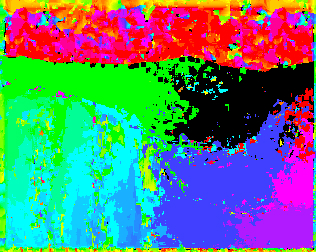
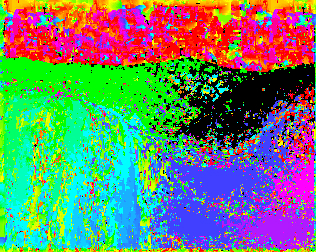
outputs

diff --git a/src/OpticalFlow.h b/src/OpticalFlow.h
@@ -13,7 +13,7 @@ public:
     // virtual Image operator()() = 0;  // call using operator
     // virtual void Call() = 0;        // call using function
 
-    void distance_to_RGB(float x, float y, int& R, int& G, int& B);
+    void distance_to_RGB(float x, float y, int& G, int& R, int& B);
     int byte_range(int);
 };
 
@@ -72,22 +72,17 @@ void OpticalFlowMethod::distance_to_RGB(float x, float y, int& R, int& G, int& B
     if ((phi >= 0.5 * Pi) && (phi < 0.75 * Pi)) {
         beta = (phi - 0.5 * Pi) / (0.25 * Pi);
         alpha = 1.0 - beta;
-
         R = (int)floor(amp * (alpha * 0.0 + beta * 255.0));
         G = (int)floor(amp * (alpha * 255.0 + beta * 255.0));
-        B = (int)floor(amp * (alpha * 255.0 + beta * 255.0));
-        // B = (int)floor(amp * (alpha * 0.0 + beta * 0.0));
+        B = (int)floor(amp * (alpha * 0.0 + beta * 0.0));
     }
     // interpolation between yellow (0.75 * Pi) and red (Pi)
     if ((phi >= 0.75 * Pi) && (phi <= Pi)) {
         beta = (phi - 0.75 * Pi) / (0.25 * Pi);
         alpha = 1.0 - beta;
-
-        // R = (int)floor(amp * (alpha * 255.0 + beta * 255.0));
-        // R = (int)floor(amp * (alpha * 0.0 + beta * 0.0));
+        R = (int)floor(amp * (alpha * 255.0 + beta * 255.0));
         G = (int)floor(amp * (alpha * 255.0 + beta * 0.0));
         B = (int)floor(amp * (alpha * 0.0 + beta * 0.0));
-        B = (int)floor(amp * (alpha * 255.0 + beta * 255.0));
     }
     // std::cout << x << " " << y << " " << R << " " << G << " " << B << std::endl;
     // std::cout << x << " " << y << " " << R << " " << G << " " << B << " angle:" << phi << std::endl;

diff --git a/src/HornSchunck/HornSchunck.h b/src/HornSchunck/HornSchunck.h
@@ -90,8 +90,8 @@ Image HornSchunck::operator()(Image& img1, Image& img2) {
                 u_old(i, j) = u;
                 if (g == iter) {
                     distance_to_RGB(u, v, R, G, B);
-                    y.R(i, j) = byte_range(G);
-                    y.G(i, j) = byte_range(R);
+                    y.R(i, j) = byte_range(R);
+                    y.G(i, j) = byte_range(G);
                     y.B(i, j) = byte_range(B);
                 }
 

diff --git a/README.md b/README.md
@@ -19,6 +19,6 @@ A simple library with Implementations of various OpticalFlow methods using Class
 #### Block Matching with windows size 7
 ![block matching](data/bm.jpg)
 
-#### Horn and Schunk - single iteration with alpha 100
+#### Horn and Schunk - 40 iterations with alpha 100
 ![yos1](data/hs.jpg)
 
